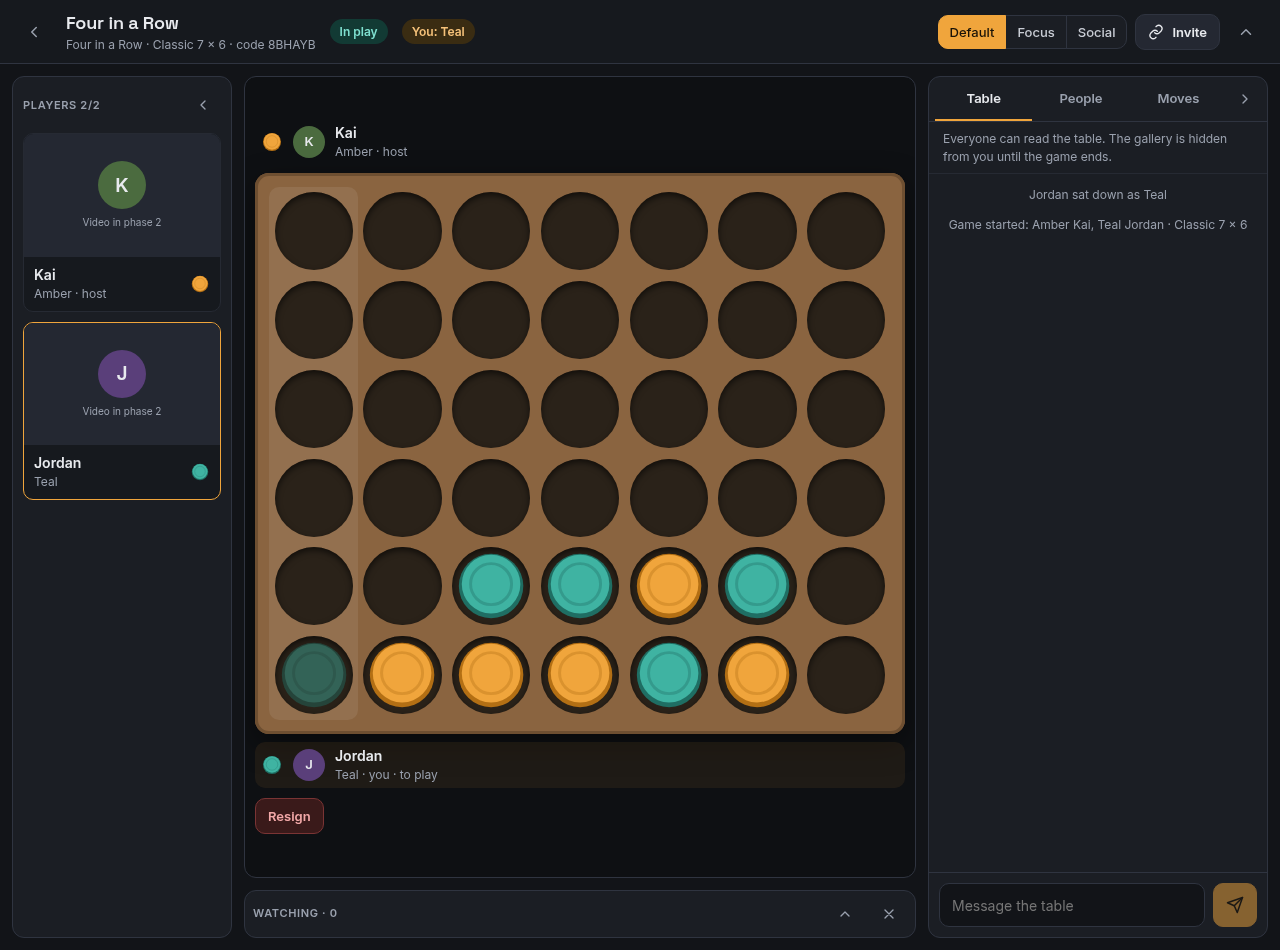
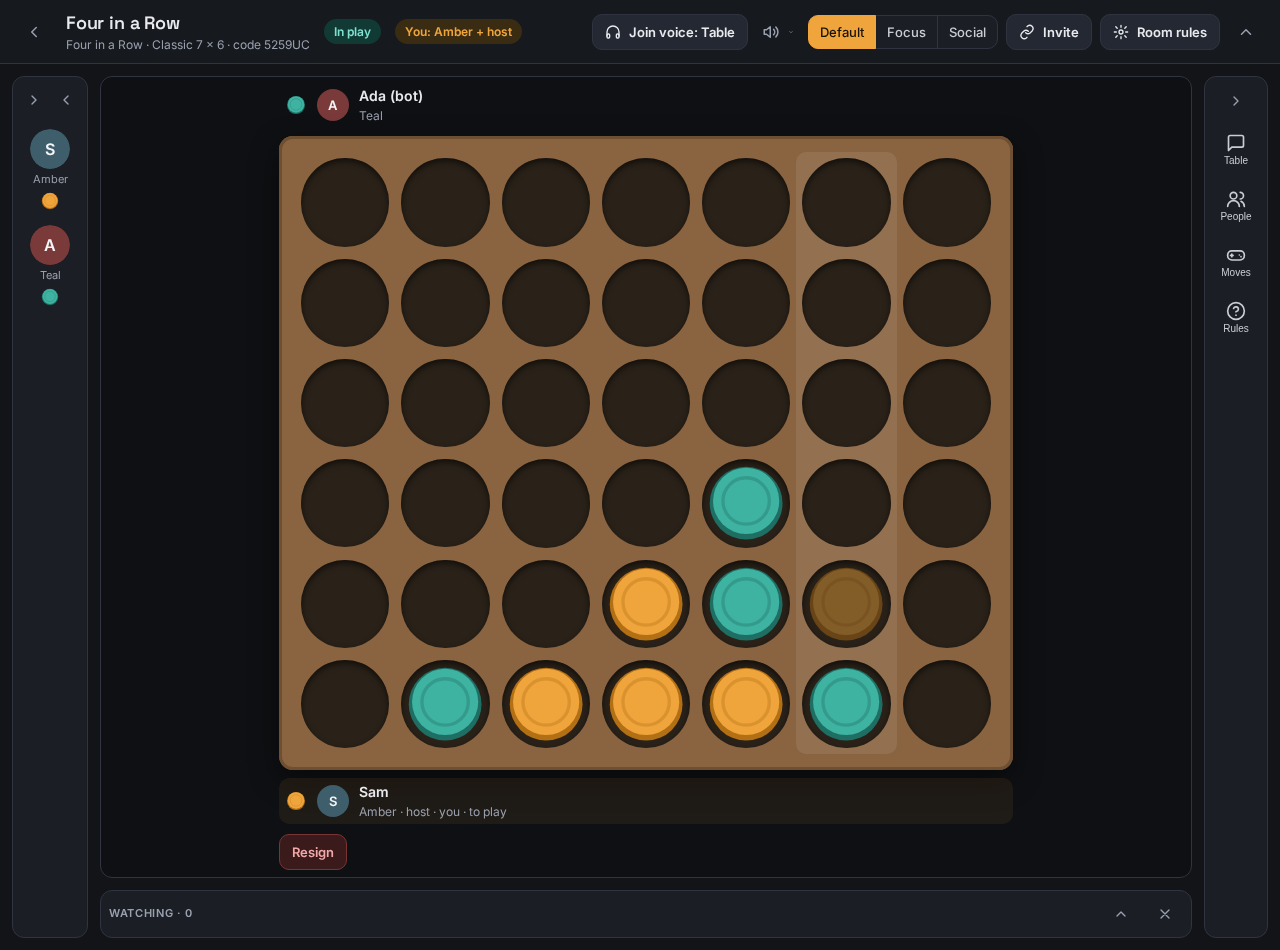
Playhall: new board game screenshots

diff --git a/playhall/README.md b/playhall/README.md
@@ -62,22 +62,22 @@ When a game ends, the room shows what it meant: the points each player won, thei
 
 **Four in a Row** is the first game built from Playhall's shared kit of boards, discs and player colours, which the games still to come will use too, so they look like one set. Hovering over a column shows where your disc would land, discs drop with a short animation, and the winning four are ringed.
 
-![Four in a Row, Jordan to play: the frame with amber and teal discs, and a faint teal disc where Jordan's would land in the first column](images/05-four-in-a-row.png)
+![Four in a Row against a computer player, Sam to play: the frame with amber and teal discs, and a faint amber disc showing where Sam's next one would land](images/05-four-in-a-row.png)
 
 **Checkers** is English draughts. Captures are compulsory, so the board only offers a capture when there is one, and a piece that can keep jumping must: you click each landing square in turn. A man that reaches the far row is crowned and then moves backwards too.
 
-![Checkers, Kai (White) to play: Kai has picked a piece that must capture, and the one square it can land on is marked](images/13-checkers.png)
+![Checkers against a computer player, Sam (Black) to play: Sam has picked up a piece and the square it can move to is marked; White's last move is highlighted](images/13-checkers.png)
 
 **Snakes and Ladders** and **Ludo** are for two to four players and bring in the dice: always rolled on the server, never in anyone's browser, so nobody can load them. Snakes and Ladders has its own drawn snakes and ladders and needs an exact roll to finish on 100. Ludo follows the usual rules: a 6 to bring a token out and another roll after a 6, rivals sent back to their yard (except on the starred squares), and an exact roll to get home. In both, everyone gets a finishing place, and second place earns a point.
 
 <p>
-<img src="images/14-snakes.png" width="49%" alt="Snakes and Ladders with three players: Jordan on 57 after rolling a 1, Lee on 19, Priya to roll">
-<img src="images/15-ludo.png" width="49%" alt="Ludo with four players, a few tokens out on the track and the rest still in their yards">
+<img src="images/14-snakes.png" width="49%" alt="Snakes and Ladders with Sam and two computer players a few rolls in, Sam to roll">
+<img src="images/15-ludo.png" width="49%" alt="Ludo with Sam and three computer players, tokens out on the track and the rest still in their yards">
 </p>
 
 **Sea Battle** is the first game with hidden information. Each player's fleet is laid out at random (shuffle until you like it, then press Ready); you only ever see your own ships and the results of the shots, red for a hit and white for a miss, and people watching see the shots alone until the game ends and both fleets are shown.
 
-![Sea Battle from Jordan's side: Jordan's fleet with Lee's shots in it on the left, and the enemy waters with Jordan's shots on the right](images/16-sea-battle.png)
+![Sea Battle from Sam's side against a computer player: Sam's fleet on the left with the bot's hits, the Carrier and Battleship sunk, and the enemy waters with Sam's shots on the right](images/16-sea-battle.png)
 
 The five ships are drawn for Playhall: a carrier with its flight deck, a battleship with three turrets, a cruiser, a submarine and a destroyer. You can place them yourself: click a ship to pick it up, turn it, and a shadow shows where it would go, red if it won't fit. Or press Shuffle for a random layout.
 
